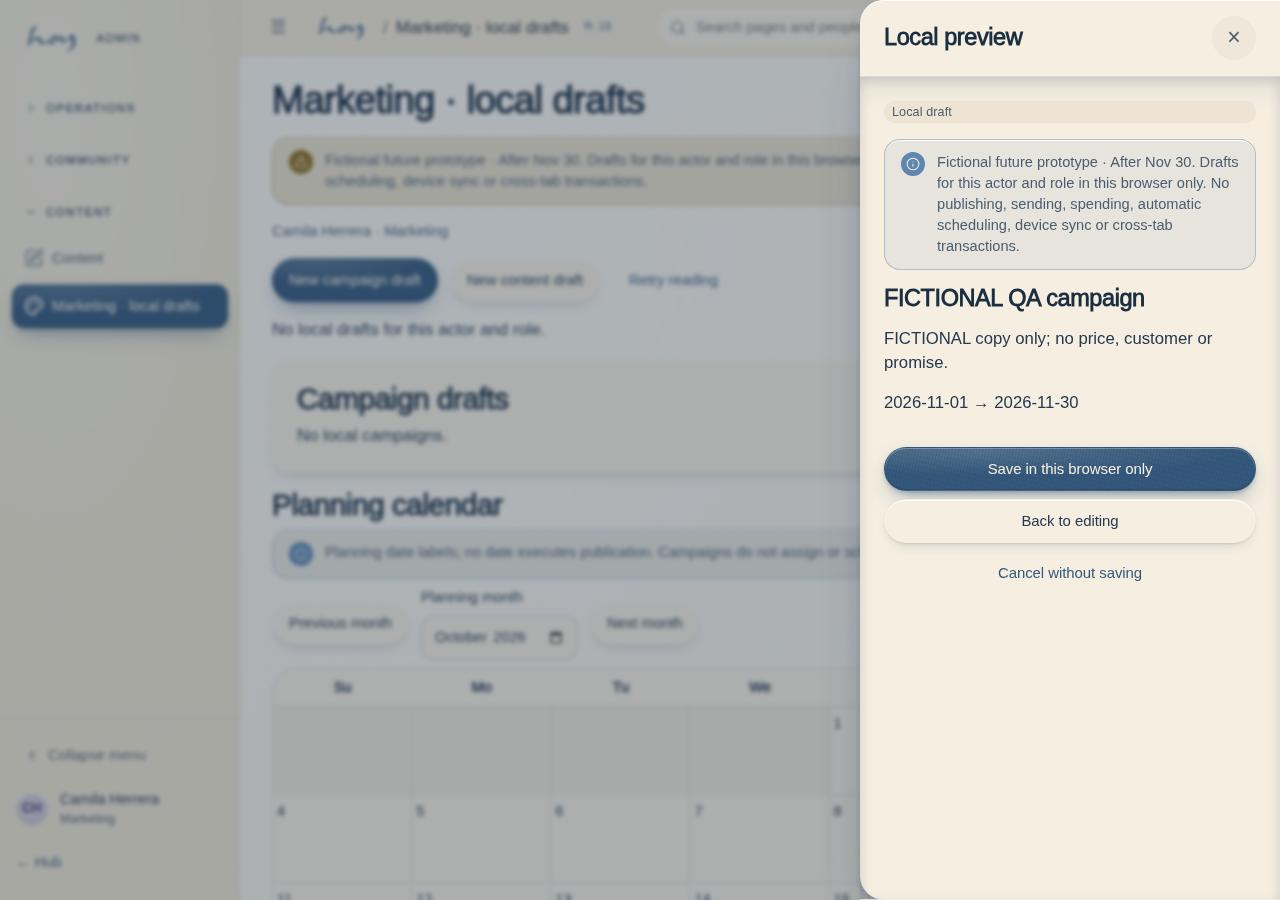
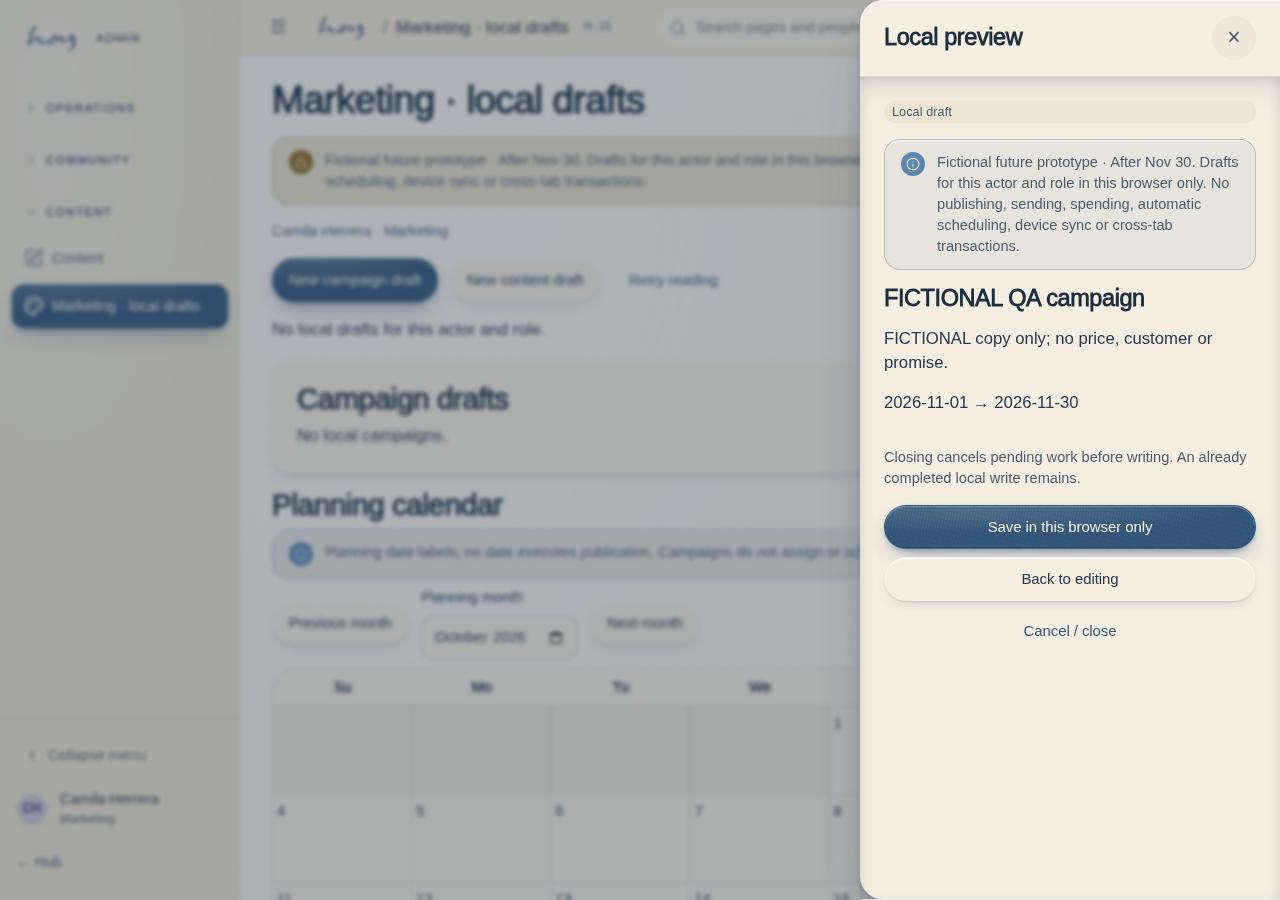
docs(frontend): record frozen marketing draft rendered proof

Changed region(s): [[0.6875, 0.4978, 1.0, 0.6533], [0.8125, 0.6844, 0.875, 0.7156]]

diff --git a/docs/frontend-completion/batch-33.md b/docs/frontend-completion/batch-33.md
@@ -10,8 +10,12 @@ The Board owns an immediate operation latch and editor identity. Cancel, unmount
 
 The browser-only boundary is unchanged: one actor/role/tenant namespace `hoyos.marketing-drafts.v1`, no DataProvider table/SQL/schema/permission writes, no shared team storage, real authorization, cross-device persistence or cross-tab transaction. Clearing browser storage erases its drafts and replay evidence; this repair cannot reconstruct erased evidence. No publish/send/spend/scheduler or customer read is added. Four existing Content roles only. Strict Gregorian date labels, studio default month and UTC calendar math, undated list, public brand ID allowlist and linked-campaign discard guard remain.
 
-Domain checks: existing `test-marketing-drafts.mjs` passes date/calendar, validation, links/assets, scoping/roles/adapter, rollback/retry/edit/discard/replay cases. New `test-marketing-draft-fences.mjs` passes eleven grouped boundary regressions: paused nested/control/context mutation; malformed controls; cancel before/during hash/after fresh read; read/quota rollback; lost acknowledgment/readback retry; concurrent equal/competing intent; create collision/required edit/kind/replay drift/recreated discarded ID; persisted readback failure; preserved newer unrelated rows/v1 opaque receipt compatibility/malformed documents; four allowed/seven denied/disconnected. Logs `/tmp/hoy-marketing-fences-legacy-domain.log` and `/tmp/hoy-marketing-fences-domain.log`; machine results in M18/marketing-fences-domain-results.json.
+Domain checks: existing `test-marketing-drafts.mjs` passes date/calendar, validation, links/assets, scoping/roles/adapter, rollback/retry/edit/discard/replay cases. New `test-marketing-draft-fences.mjs` passes eleven grouped boundary regressions: paused nested/control/context mutation; malformed controls; cancel before/during hash/after fresh read; read/quota rollback; lost acknowledgment/readback retry; concurrent equal/competing intent; create collision/required edit/kind/replay drift/recreated discarded ID; persisted readback failure; preserved newer unrelated rows/v1 opaque receipt compatibility/malformed documents; four allowed/seven denied/disconnected. Logs `/tmp/hoy-marketing-fences-legacy-domain.log` and `/tmp/hoy-marketing-fences-domain.log`; machine results in M-18/marketing-fences-domain-results.json.
 
[2 lines of base64/hex data omitted]
 
-Remaining owner/backend gates: Aleja final art; owner publication/calendar/approval and rights/consent decisions from batch19 stay separate and unchanged. No new Jas decision blocks this bounded repair; no questions were sent externally. Justin actions: none for the mock repair, no provisioning/credentials requested. Anu: authenticated scoped persistence, transactional concurrency/idempotency and authorized public/private asset plus publishing/delivery contracts before operational acceptance. Root owns integrated metadata, checked commits, exact-head CI, merge/deployment/public readback and rollback receipts. Next step: exclusive frozen local build/rendered QA, then root integration and release; OT01 remains partial in its original future phase.
+Root source checkpoint `e053498c62e9531e81377dd9f87a06a32c62038d` was committed/pushed after the frozen build and before final browser QA; fingerprint equality verifies the source relationship without changing immutable provenance or claiming exact-head CI/deployment. Module/runtime/bundle fingerprints remained identical after all final QA. Root integrated CI/merge/deployment receipts remain pending. A temporary exec transport disconnection affected only a log read; the existing dev session80208 was checked to EXIT0 after recovery, with no test/browser rerun and no access denial.
+
+Canonical EN/ES390/1280 images copy the final production workspace captures. Visually inspected EN390 light busy, EN1280 light missing-original conflict, ES390 dark uncertain readback, ES1280 dark replay conflict, EN390 dark actual library preview and EN1280 light workspace: controls/notices/cancel remain readable and contained, calendar/undated rows and public references fit, and future/local/no publication limitations remain clear. Browser slot was released immediately after the last actual closure; no further source changes or browser runs.
+
+Remaining owner/backend gates: Aleja final art; owner publication/calendar/approval and rights/consent decisions from batch19 stay separate and unchanged. No new Jas decision blocks this bounded repair; no questions were sent externally. Justin actions: none for the mock repair, no provisioning/credentials requested. Anu: authenticated scoped persistence, transactional concurrency/idempotency and authorized public/private asset plus publishing/delivery contracts before operational acceptance. Root owns integrated metadata, checked commits, exact-head CI, merge/deployment/public readback and rollback receipts. Next step: root integrated metadata/checks/CI/merge/deployment and exact-source public readback; OT01 remains partial in its original future phase.

diff --git a/docs/pages/M-18.md b/docs/pages/M-18.md
@@ -13,3 +13,5 @@ See [batch19](../frontend-completion/batch-19.md). Screenshots: [English desktop
 Batch33 repairs mutable command/context hashing with owned snapshots, explicit create/edit expectations and required-row/current-effect replay validation. Pending actions have immediate busy and cancel/unmount/editor/deep-link/actor/effective-role/provider fences; old completions cannot alter a new context. Closing before commit cancels work; completed local writes remain. Unknown acknowledgment is labeled uncertain, never “not saved.” Existing v1 documents and opaque receipt entries remain readable. See [batch33](../frontend-completion/batch-33.md) for exact final checks and remaining gates.
 
 The exported `runDraftCommand` cancellation predicate aborts pending work before its write. After a completed, verified write, its returned snapshot is a factual storage result; the Board separately fences UI acknowledgment/navigation. Canceling then does not roll back committed data. Replay checks cancellation after the fresh scoped read.
+
+Batch33 final checks passed: full build/domain, production EN/ES390/1280 light/dark/all11roles, actual delayed/cancel/context/replay fault states and focused authorized D02 preview/cancel. Canonical workspace captures are refreshed; busy/uncertain-result/required-row/replay-conflict variants and machine results are in `docs/screenshots/M-18/`. Source checkpoint e053498 is separate from root's pending integrated CI/deployment receipt; OT01 remains partial in its original future phase.

diff --git a/docs/changelog/0114-marketing-draft-fences.md b/docs/changelog/0114-marketing-draft-fences.md
@@ -10,4 +10,4 @@ Decision: own the command and context synchronously before hashing; validate exp
 
 Alternative rejected: adding another storage location, inferred publication stages, policy changes or a server/provider contract would exceed this bounded browser mock repair. No cross-tab transaction/durability, delivery, approval, art rights or commercial acceptance is claimed. Generic Content tools and other batches are untouched.
 
-Files: marketing drafts.ts/strings; MarketingDraftBoard.tsx/meta; existing draft domain/UI tests; new fence domain/dev-state harness/scripts; M18 page/captures and batch33 evidence. Root owns shared manifests/kanban/spec metadata, Git/CI/merge/deployment. Validation outcomes and exact frozen build receipts are recorded in batch33 after execution.
+Files: marketing drafts.ts/strings; MarketingDraftBoard.tsx/meta; existing draft domain/UI tests; new fence domain/dev-state harness/scripts; M18 page/captures and batch33 evidence. Root owns shared manifests/kanban/spec metadata, Git/CI/merge/deployment. Validation: full build, existing domain, eleven new boundary-test groups, immutable production EN/ES390/1280light/dark/all11roles, actual lifecycle fault matrix and focused D02 preview/cancel smoke all passed. No suite retries or runtime changes after source457abda freeze. Exact source/bundle/checked-checkpoint distinctions, inspected renders and remaining integrated CI/deployment gates are recorded in batch33 and evidence/batch-33-build.json. No whole OT01 acceptance.
